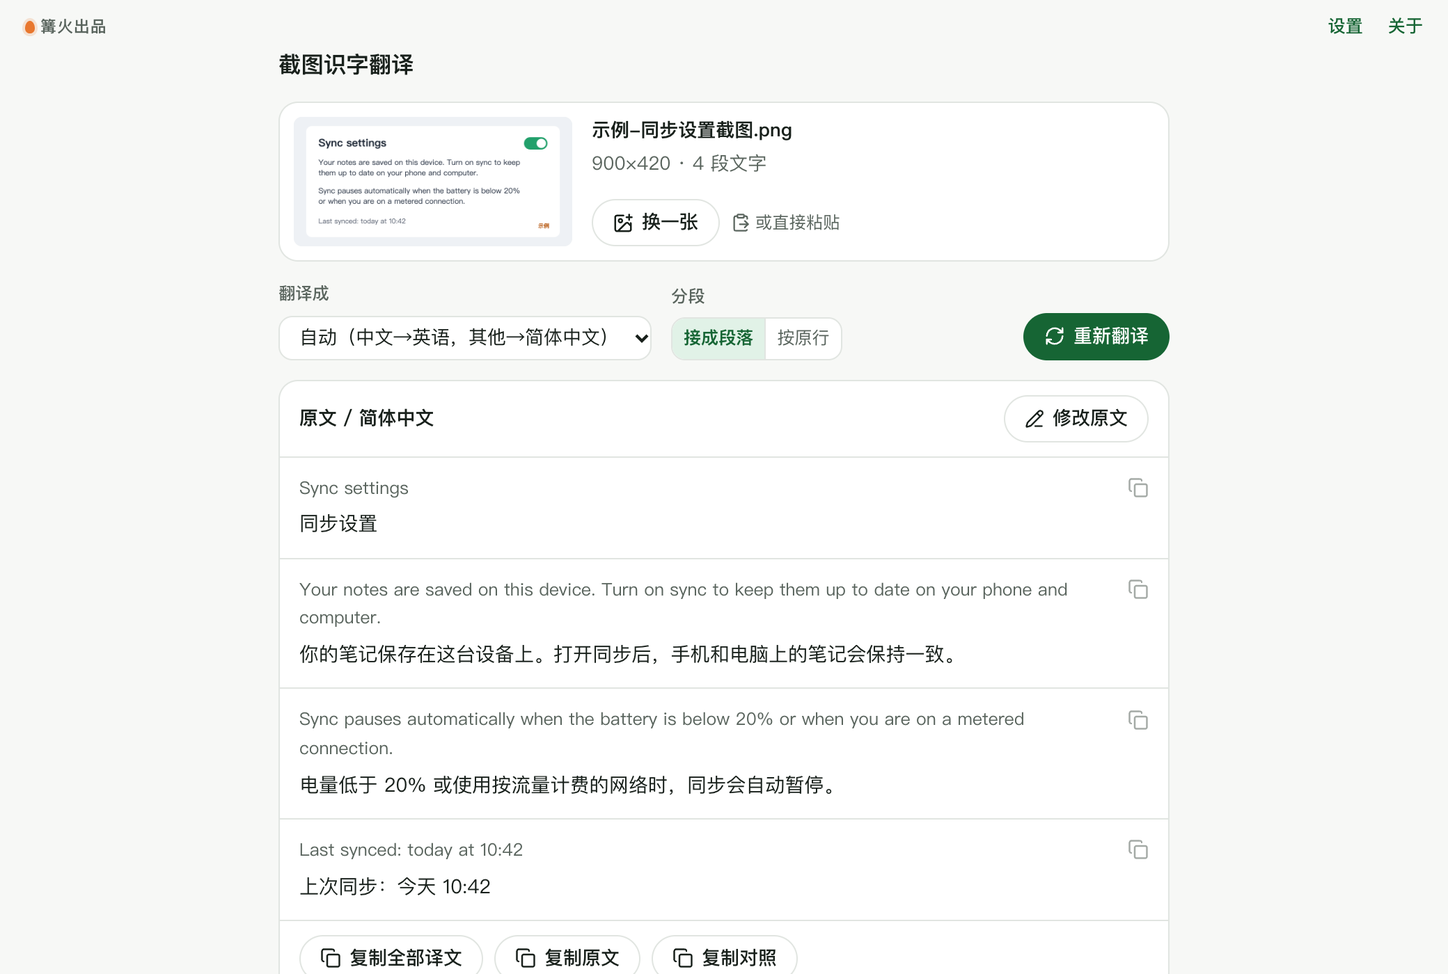
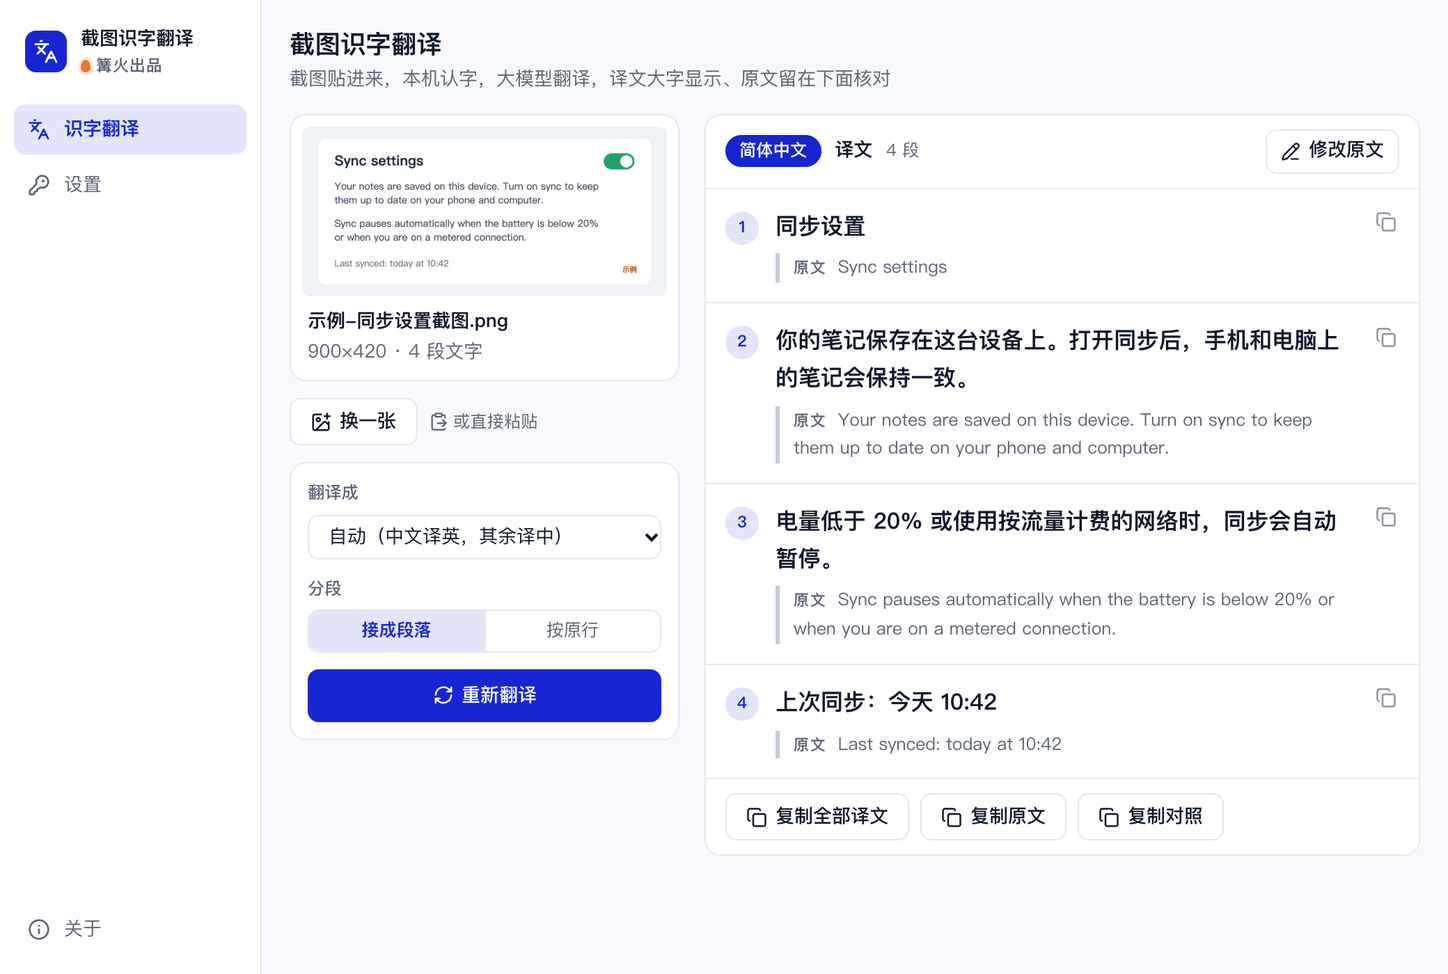
打磨 0.2.0：左右分栏、大字译文、示意图空状态

diff --git a/src/tool/Main.tsx b/src/tool/Main.tsx
@@ -8,6 +8,7 @@ import { llmReady, useSettings } from '../kit/settings';
 import { AUTO, IMAGE_EXTS, LANGS, copyText, isImagePath, joinSource, langLabel, lineBoxes, pastedName, resolveTarget, splitSource, toParagraphs, translate, type Pair } from './core';
 import type { TextLine } from './ocr-core';
 import { SAMPLE_NAME, SAMPLE_SEGMENTS, SAMPLE_TRANSLATIONS, sampleImage } from './sample';
+import { EmptyFlow } from './Empty';
 import './tool.css';
 
 type Ctx = Parameters<CustomTool['Main']>[0]['ctx'];
@@ -49,7 +50,7 @@ export function Main({ ctx, preview }: { ctx?: Ctx; preview?: boolean }) {
 
   // 预览页：直接展示示例截图和结果
   useEffect(() => {
-    if (!preview) return;
+    if (!preview || new URLSearchParams(location.search).get('state') === 'empty') return;
     setShot({ name: SAMPLE_NAME, url: sampleImage(), width: 900, height: 420 });
     setEdited(SAMPLE_SEGMENTS);
     setResult({ key: SAMPLE_SEGMENTS.join('\u0000') + '|zh-Hans', lang: 'zh-Hans', texts: SAMPLE_TRANSLATIONS });
@@ -131,103 +132,116 @@ export function Main({ ctx, preview }: { ctx?: Ctx; preview?: boolean }) {
   };
   const changeMode = (v: boolean) => { setByLine(v); savePref({ byLine: v }); setEdited(null); };
 
+  const sourceName = shot?.name ?? '';
   return (
     <div className="st-root">
+      <header className="st-head">
+        <h1>截图识字翻译</h1>
+        <p className="k-muted">截图贴进来，本机认字，大模型翻译，译文大字显示、原文留在下面核对</p>
+      </header>
       {!shot ? (
         <button className={`st-drop${hover ? ' hover' : ''}`} onClick={pick}>
-          <ImagePlus size={28} />
-          <b>把截图拖到这里，或按 <kbd>{navigator.platform.startsWith('Mac') ? '⌘' : 'Ctrl'}</kbd> + <kbd>V</kbd> 粘贴</b>
-          <span className="k-muted">也可以点击选择图片 · 支持 PNG、JPG、WebP、BMP、GIF</span>
+          <EmptyFlow />
+          <b>{hover ? '松开鼠标，开始识别' : <>把截图拖到这里，或按 <kbd>{navigator.platform.startsWith('Mac') ? '⌘' : 'Ctrl'}</kbd> + <kbd>V</kbd> 粘贴</>}</b>
+          <span className="k-muted"><ImagePlus size={14} />也可以点击选择图片 · 支持 PNG、JPG、WebP、BMP、GIF</span>
           <span className="k-muted">文字识别在本机完成；翻译会把识别出的文字发给你在「设置」里填的大模型</span>
         </button>
       ) : (
-        <div className={`st-shot${hover ? ' hover' : ''}`}>
-          <img src={shot.url} alt={`截图：${shot.name}`} />
-          <div className="st-shot-info">
-            <b title={shot.name}>{shot.name}</b>
-            <span className="k-muted k-num">{shot.width ? `${shot.width}×${shot.height} · ` : ''}{lines || edited ? `${segs.length} ${byLine ? '行' : '段'}文字` : '识别中…'}</span>
-            <span className="st-sp" />
+        <div className="st-work">
+          <aside className="st-left">
+            <figure className={`st-shot${hover ? ' hover' : ''}`}>
+              <img src={shot.url} alt={`截图：${sourceName}`} />
+              <figcaption>
+                <b title={sourceName}>{sourceName}</b>
+                <span className="k-muted k-num">{shot.width ? `${shot.width}×${shot.height} · ` : ''}{lines || edited ? `${segs.length} ${byLine ? '行' : '段'}文字` : '识别中…'}</span>
+              </figcaption>
+            </figure>
             <div className="st-row">
               <button className="k-btn" onClick={pick} disabled={busy}><ImagePlus size={15} />换一张</button>
               <span className="k-muted st-paste"><ClipboardPaste size={14} />或直接粘贴</span>
             </div>
-          </div>
-        </div>
-      )}
+            <div className="st-ctl">
+              <label className="st-field">
+                <span className="k-label">翻译成</span>
+                <select className="k-input" value={target} disabled={busy} onChange={(e) => changeTarget(e.target.value)}>
+                  <option value={AUTO}>自动（中文译英，其余译中）</option>
+                  {LANGS.map(([k, l]) => <option key={k} value={k}>{l}</option>)}
+                </select>
+              </label>
+              <div className="st-field">
+                <span className="k-label">分段</span>
+                <div className="k-seg" role="radiogroup" aria-label="分段">
+                  <button role="radio" aria-checked={!byLine} className={!byLine ? 'on' : ''} disabled={busy} onClick={() => changeMode(false)}>接成段落</button>
+                  <button role="radio" aria-checked={byLine} className={byLine ? 'on' : ''} disabled={busy} onClick={() => changeMode(true)}>按原行</button>
+                </div>
+              </div>
+              <button className="k-btn primary st-go" disabled={busy || !segs.length || !ready} title={!ready ? '先到「设置」里填写大模型' : undefined} onClick={() => runTranslate(segs, lang)}>
+                {status === 'translating' ? <Loader2 size={15} className="k-spin" /> : fresh ? <RefreshCw size={15} /> : <Languages size={15} />}
+                {fresh ? '重新翻译' : '翻译'}
+              </button>
+            </div>
+          </aside>
 
-      <div className="st-bar">
-        <label className="st-field">
-          <span className="k-label">翻译成</span>
-          <select className="k-input" value={target} disabled={busy} onChange={(e) => changeTarget(e.target.value)}>
-            <option value={AUTO}>自动（中文→英语，其他→简体中文）</option>
-            {LANGS.map(([k, l]) => <option key={k} value={k}>{l}</option>)}
-          </select>
-        </label>
-        <div className="st-field">
-          <span className="k-label">分段</span>
-          <div className="k-seg" role="radiogroup" aria-label="分段">
-            <button role="radio" aria-checked={!byLine} className={!byLine ? 'on' : ''} disabled={busy} onClick={() => changeMode(false)}>接成段落</button>
-            <button role="radio" aria-checked={byLine} className={byLine ? 'on' : ''} disabled={busy} onClick={() => changeMode(true)}>按原行</button>
-          </div>
-        </div>
-        <span className="st-sp" />
-        <button className="k-btn primary" disabled={busy || !segs.length || !ready} title={!ready ? '先到「设置」里填写大模型' : undefined} onClick={() => runTranslate(segs, lang)}>
-          {status === 'translating' ? <Loader2 size={15} className="k-spin" /> : fresh ? <RefreshCw size={15} /> : <Languages size={15} />}
-          {fresh ? '重新翻译' : '翻译'}
-        </button>
-      </div>
+          <section className="st-right">
+            {busy && (
+              <div className="st-busy" role="status">
+                <Loader2 size={15} className="k-spin" />
+                <span>{status === 'ocr' ? '正在识别文字…（第一次会多花几秒加载模型）' : `正在翻译成${langLabel(lang)}…`}</span>
+                <ProgressBar ratio={progress} label={status === 'ocr' ? '识别进度' : '翻译进度'} />
+              </div>
+            )}
+            {status === 'error' && error && (
+              <div className="k-notice err" role="alert"><span>{error}</span><button className="k-icon-btn" aria-label="关闭提示" onClick={() => { setError(''); setStatus(segs.length ? 'done' : 'idle'); }}><X size={14} /></button></div>
+            )}
+            {!ready && segs.length > 0 && !preview && (
+              <div className="k-notice" role="status"><span>文字已识别。要翻译，请先到「设置」填写大模型的接口地址、密钥和模型名。</span></div>
+            )}
+            {pasteHint && <div className="k-notice" role="status"><span>剪贴板里没有图片。先截图到剪贴板（或在图片上右键「复制图片」），再按粘贴。</span></div>}
+            {(lines || edited) && !segs.length && status === 'done' && <div className="k-notice"><span>这张图里没有识别到文字。图片太小或文字太浅时，可以放大后重新截图。</span></div>}
 
-      {busy && (
-        <div className="st-busy" role="status">
-          <Loader2 size={15} className="k-spin" />
-          <span>{status === 'ocr' ? '正在识别文字…（第一次会多花几秒加载模型）' : `正在翻译成${langLabel(lang)}…`}</span>
-          <ProgressBar ratio={progress} label={status === 'ocr' ? '识别进度' : '翻译进度'} />
+            {editing !== null ? (
+              <section className="st-panel">
+                <div className="st-panel-hd"><b>修改原文</b><span className="k-muted">{byLine ? '每行一段' : '段与段之间空一行'}，识别错的字可以在这里改</span></div>
+                <textarea className="k-input k-textarea st-edit" rows={10} value={editing} onChange={(e) => setEditing(e.target.value)} aria-label="原文" />
+                <div className="st-row st-end">
+                  <button className="k-btn" onClick={() => setEditing(null)}>取消</button>
+                  <button className="k-btn primary" onClick={() => {
+                    const list = splitSource(editing, byLine);
+                    setEdited(list); setEditing(null);
+                    if (ready && list.length) void runTranslate(list, resolveTarget(target, list.join('\n')));
+                  }}>{ready ? '保存并翻译' : '保存'}</button>
+                </div>
+              </section>
+            ) : segs.length > 0 && (
+              <section className="st-panel">
+                <div className="st-panel-hd">
+                  <span className="st-badge">{fresh ? langLabel(result!.lang) : '待翻译'}</span>
+                  <b>译文</b>
+                  <span className="k-muted k-num">{segs.length} {byLine ? '行' : '段'}</span>
+                  <span className="st-sp" />
+                  <button className="k-btn st-small" disabled={busy} onClick={() => setEditing(joinSource(segs, byLine))}><PencilLine size={14} />修改原文</button>
+                </div>
+                <ol className="st-pairs">
+                  {pairs.map((p, i) => (
+                    <li key={i} className="st-pair">
+                      <i className="st-no k-num">{i + 1}</i>
+                      <div className="st-txt">
+                        {p.target ? <p className="st-dst">{p.target}</p> : <p className="st-dst k-muted">{status === 'translating' ? '翻译中…' : '（未翻译）'}</p>}
+                        <p className="st-src"><span>原文</span>{p.source}</p>
+                      </div>
+                      {p.target && <span className="st-pair-copy"><CopyButton text={p.target} /></span>}
+                    </li>
+                  ))}
+                </ol>
+                <div className="st-row st-copy">
+                  {fresh && <CopyButton text={copyText(pairs, 'target', byLine)} label="复制全部译文" />}
+                  <CopyButton text={copyText(pairs, 'source', byLine)} label="复制原文" />
+                  {fresh && <CopyButton text={copyText(pairs, 'both', byLine)} label="复制对照" />}
+                </div>
+              </section>
+            )}
+          </section>
         </div>
-      )}
-      {status === 'error' && error && (
-        <div className="k-notice err" role="alert"><span>{error}</span><button className="k-icon-btn" aria-label="关闭提示" onClick={() => { setError(''); setStatus(segs.length ? 'done' : 'idle'); }}><X size={14} /></button></div>
-      )}
-      {!ready && segs.length > 0 && !preview && (
-        <div className="k-notice" role="status"><span>文字已识别。要翻译，请先到「设置」填写大模型的接口地址、密钥和模型名。</span></div>
-      )}
-      {pasteHint && <div className="k-notice" role="status"><span>剪贴板里没有图片。先截图到剪贴板（或在图片上右键「复制图片」），再按粘贴。</span></div>}
-      {(lines || edited) && !segs.length && status === 'done' && <div className="k-notice"><span>这张图里没有识别到文字。图片太小或文字太浅时，可以放大后重新截图。</span></div>}
-
-      {editing !== null ? (
-        <section className="st-panel">
-          <div className="st-panel-hd"><b>修改原文</b><span className="k-muted">{byLine ? '每行一段' : '段与段之间空一行'}，识别错的字可以在这里改</span></div>
-          <textarea className="k-input k-textarea st-edit" rows={10} value={editing} onChange={(e) => setEditing(e.target.value)} aria-label="原文" />
-          <div className="st-row st-end">
-            <button className="k-btn" onClick={() => setEditing(null)}>取消</button>
-            <button className="k-btn primary" onClick={() => {
-              const list = splitSource(editing, byLine);
-              setEdited(list); setEditing(null);
-              if (ready && list.length) void runTranslate(list, resolveTarget(target, list.join('\n')));
-            }}>{ready ? '保存并翻译' : '保存'}</button>
-          </div>
-        </section>
-      ) : segs.length > 0 && (
-        <section className="st-panel">
-          <div className="st-panel-hd">
-            <b>原文 / {fresh ? langLabel(result!.lang) : '译文'}</b>
-            <span className="st-sp" />
-            <button className="k-btn st-small" disabled={busy} onClick={() => setEditing(joinSource(segs, byLine))}><PencilLine size={14} />修改原文</button>
-          </div>
-          <ol className="st-pairs">
-            {pairs.map((p, i) => (
-              <li key={i} className="st-pair">
-                <p className="st-src">{p.source}</p>
-                {p.target ? <p className="st-dst">{p.target}</p> : <p className="st-dst k-muted">{status === 'translating' ? '翻译中…' : '（未翻译）'}</p>}
-                {p.target && <span className="st-pair-copy"><CopyButton text={p.target} /></span>}
-              </li>
-            ))}
-          </ol>
-          <div className="st-row st-copy">
-            {fresh && <CopyButton text={copyText(pairs, 'target', byLine)} label="复制全部译文" />}
-            <CopyButton text={copyText(pairs, 'source', byLine)} label="复制原文" />
-            {fresh && <CopyButton text={copyText(pairs, 'both', byLine)} label="复制对照" />}
-          </div>
-        </section>
       )}
     </div>
   );

diff --git a/src/tool/tool.css b/src/tool/tool.css
@@ -1,42 +1,65 @@
-/* 截图识字翻译：只用 kit.css 的变量。类名统一以 st- 开头。 */
+/* 截图识字翻译：左边截图和选项，右边大字译文。只用 kit.css 的变量。类名统一以 st- 开头。 */
 .st-root { display: flex; flex-direction: column; gap: 14px; }
 .st-sp { flex: 1; }
 .st-row { display: flex; align-items: center; gap: 8px; flex-wrap: wrap; }
 .st-end { justify-content: flex-end; }
+.st-head h1 { margin: 0; font-size: 1.35em; }
+.st-head p { margin: 2px 0 0; }
 
-.st-drop { display: flex; flex-direction: column; align-items: center; justify-content: center; gap: 8px; min-height: 230px; padding: 24px; text-align: center; color: var(--ink); background: var(--surface); border: 1.5px dashed var(--line-strong); border-radius: var(--radius-lg); cursor: pointer; font: inherit; transition: border-color .15s var(--ease), background .15s var(--ease); }
-.st-drop svg { color: var(--primary); }
-.st-drop b { font-size: 1.08em; font-weight: 600; }
+.st-drop { display: flex; flex-direction: column; align-items: center; justify-content: center; gap: 8px; min-height: 300px; padding: 22px; text-align: center; color: var(--ink); background: var(--surface); border: 1.5px dashed var(--line-strong); border-radius: var(--radius-lg); cursor: pointer; font: inherit; transition: border-color .2s var(--ease), background .2s var(--ease); }
+.st-drop b { font-size: 1.1em; font-weight: 600; margin-top: 4px; }
+.st-drop .k-muted { display: inline-flex; align-items: center; gap: 6px; }
 .st-drop:hover, .st-drop.hover { border-color: var(--primary); background: var(--primary-soft); }
 kbd { display: inline-block; min-width: 1.6em; padding: 0 5px; border: 1px solid var(--line-strong); border-bottom-width: 2px; border-radius: 5px; font: inherit; font-size: .9em; background: var(--chip); }
+.st-flow { width: 100%; max-width: 560px; height: auto; }
+.st-f-card { fill: var(--surface); stroke: var(--line-strong); }
+.st-f-bar { fill: var(--chip); }
+.st-f-dot { fill: var(--line-strong); }
+.st-f-ln { fill: var(--line-strong); }
+.st-f-ln.faint { opacity: .55; }
+.st-f-cap { fill: var(--muted); font-size: 11px; }
+.st-f-arrow { stroke: var(--primary); stroke-width: 2; fill: none; stroke-linecap: round; stroke-linejoin: round; }
+.st-f-chip { fill: var(--primary-soft); stroke: var(--primary); }
+.st-f-chip.hot { fill: var(--primary); }
+.st-f-chip-t { fill: var(--primary); font-size: 11px; font-weight: 600; }
+.st-f-chip-t.hot { fill: var(--on-primary); }
+.st-f-zh { fill: var(--ink); font-size: 12.5px; font-weight: 600; }
 
-.st-shot { display: flex; gap: 14px; padding: 10px; background: var(--surface); border: 1px solid var(--line); border-radius: var(--radius-lg); }
+.st-work { display: grid; grid-template-columns: 280px minmax(0, 1fr); gap: 18px; align-items: start; }
+.st-left { display: flex; flex-direction: column; gap: 12px; position: sticky; top: 0; }
+.st-shot { margin: 0; padding: 8px; background: var(--surface); border: 1px solid var(--line); border-radius: var(--radius-lg); display: grid; gap: 8px; transition: border-color .2s var(--ease); }
 .st-shot.hover { border-color: var(--primary); }
-.st-shot img { flex: none; width: 200px; max-height: 140px; object-fit: contain; object-position: left top; border-radius: 6px; background: var(--chip); }
-.st-shot-info { flex: 1; min-width: 0; display: flex; flex-direction: column; gap: 4px; }
-.st-shot-info b { overflow: hidden; text-overflow: ellipsis; white-space: nowrap; }
+.st-shot img { width: 100%; max-height: 220px; object-fit: contain; border-radius: 6px; background: var(--chip); }
+.st-shot figcaption { display: grid; gap: 2px; padding: 0 4px 2px; }
+.st-shot figcaption b { overflow: hidden; text-overflow: ellipsis; white-space: nowrap; }
 .st-paste { display: inline-flex; align-items: center; gap: 4px; font-size: .9em; }
-
-.st-bar { display: flex; align-items: flex-end; gap: 14px; flex-wrap: wrap; }
+.st-ctl { display: flex; flex-direction: column; gap: 12px; padding: 12px; background: var(--side); border: 1px solid var(--line); border-radius: var(--radius-lg); }
 .st-field { display: flex; flex-direction: column; gap: 6px; min-width: 0; }
-.st-field select { min-width: 230px; }
+.st-field select { width: 100%; }
+.st-go { width: 100%; height: 38px; }
 
+.st-right { display: flex; flex-direction: column; gap: 12px; min-width: 0; }
 .st-busy { display: flex; align-items: center; gap: 10px; color: var(--muted); }
 .st-busy .k-bar { flex: 1; max-width: 220px; }
 
 .st-panel { display: flex; flex-direction: column; background: var(--surface); border: 1px solid var(--line); border-radius: var(--radius-lg); overflow: hidden; }
 .st-panel-hd { display: flex; align-items: center; gap: 10px; flex-wrap: wrap; padding: 10px 14px; border-bottom: 1px solid var(--line); }
 .st-panel-hd .k-muted { font-size: .9em; }
-.st-small { height: 28px; padding: 0 10px; }
+.st-badge { padding: 2px 10px; border-radius: 999px; background: var(--primary); color: var(--on-primary); font-size: .9em; font-weight: 600; }
+.st-small { height: 32px; padding: 0 10px; }
 .st-edit { margin: 12px 14px; width: auto; border-radius: min(var(--radius), 10px); line-height: 1.7; }
 .st-panel > .st-end { padding: 0 14px 12px; }
 
 .st-pairs { list-style: none; margin: 0; padding: 0; }
-.st-pair { position: relative; padding: 12px 48px 12px 14px; border-bottom: 1px solid var(--line); user-select: text; }
+.st-pair { position: relative; display: grid; grid-template-columns: 26px minmax(0, 1fr); gap: 10px; padding: 14px 52px 14px 14px; border-bottom: 1px solid var(--line); user-select: text; }
 .st-pair:last-child { border-bottom: 0; }
-.st-pair p { margin: 0; line-height: 1.65; overflow-wrap: anywhere; white-space: pre-wrap; }
-.st-src { color: var(--muted); font-size: .93em; }
-.st-dst { margin-top: 4px !important; color: var(--ink); font-size: 1.04em; }
-.st-pair-copy { position: absolute; top: 8px; right: 8px; opacity: .55; transition: opacity .15s var(--ease); }
+.st-no { font-style: normal; width: 24px; height: 24px; display: grid; place-items: center; border-radius: 50%; background: var(--primary-soft); color: var(--primary); font-size: .85em; font-weight: 700; margin-top: 2px; }
+.st-txt { display: grid; gap: 6px; min-width: 0; }
+.st-txt p { margin: 0; line-height: 1.65; overflow-wrap: anywhere; white-space: pre-wrap; }
+.st-dst { font-size: 1.2em; font-weight: 600; color: var(--ink); }
+.st-src { color: var(--muted); font-size: .93em; padding-left: 10px; border-left: 3px solid var(--line-strong); }
+.st-src span { display: inline-block; margin-right: 8px; font-size: .88em; font-weight: 600; letter-spacing: .08em; color: var(--muted); }
+.st-pair-copy { position: absolute; top: 10px; right: 10px; opacity: .7; transition: opacity .15s var(--ease); }
 .st-pair:hover .st-pair-copy, .st-pair-copy:focus-within { opacity: 1; }
 .st-copy { padding: 10px 14px; border-top: 1px solid var(--line); background: var(--side); }
+@media (max-width: 760px) { .st-work { grid-template-columns: 1fr; } .st-left { position: static; } }

diff --git a/src/tool/Empty.tsx b/src/tool/Empty.tsx
@@ -1,0 +1,36 @@
+// 空状态示意：外文截图（灰条代表外文）→ 本机识别 → 大模型翻译 → 一段外文配一段中文
+export function EmptyFlow() {
+  return (
+    <svg className="st-flow" viewBox="0 0 560 150" role="img" aria-label="一张外文截图，文字在本机识别后交给大模型翻译，变成逐段对照的译文">
+      <g>
+        <rect x="6" y="8" width="132" height="104" rx="8" className="st-f-card" />
+        <rect x="6" y="8" width="132" height="18" rx="8" className="st-f-bar" />
+        <circle cx="18" cy="17" r="3" className="st-f-dot" /><circle cx="29" cy="17" r="3" className="st-f-dot" /><circle cx="40" cy="17" r="3" className="st-f-dot" />
+        {[[36, 96], [52, 118], [68, 84], [92, 100]].map(([y, w], i) => <rect key={i} x="18" y={y + 4} width={w} height="7" rx="3.5" className={i === 3 ? 'st-f-ln faint' : 'st-f-ln'} />)}
+        <text x="72" y="136" textAnchor="middle" className="st-f-cap">外文截图</text>
+      </g>
+      <g>
+        <rect x="140" y="26" width="74" height="22" rx="11" className="st-f-chip" />
+        <text x="177" y="41" textAnchor="middle" className="st-f-chip-t">本机识别</text>
+        <path d="M157 64 H195" className="st-f-arrow" /><path d="M188 57 L197 64 L188 71" className="st-f-arrow" />
+        <text x="177" y="90" textAnchor="middle" className="st-f-cap">图片不上传</text>
+      </g>
+      <g>
+        <rect x="224" y="26" width="86" height="22" rx="11" className="st-f-chip hot" />
+        <text x="267" y="41" textAnchor="middle" className="st-f-chip-t hot">大模型翻译</text>
+        <path d="M247 64 H285" className="st-f-arrow" /><path d="M278 57 L287 64 L278 71" className="st-f-arrow" />
+        <text x="267" y="90" textAnchor="middle" className="st-f-cap">只发文字</text>
+      </g>
+      <g>
+        <rect x="322" y="8" width="232" height="104" rx="8" className="st-f-card" />
+        {[0, 1, 2].map((i) => (
+          <g key={i}>
+            <rect x="334" y={22 + i * 30} width={[110, 130, 90][i]} height="6" rx="3" className="st-f-ln faint" />
+            <text x="334" y={44 + i * 30} className="st-f-zh">{['同步设置', '电量低于 20% 时自动暂停', '上次同步：今天 10:42'][i]}</text>
+          </g>
+        ))}
+        <text x="438" y="136" textAnchor="middle" className="st-f-cap">原文译文逐段对照，可单独复制</text>
+      </g>
+    </svg>
+  );
+}

diff --git a/src/tool/core.ts b/src/tool/core.ts
@@ -121,6 +121,7 @@ export function buildMessages(segs: string[], target: string): Msg[] {
   return [
     {
       role: 'system',
+      // check-zh: 忽略（写给大模型的提示词里的 JSON 字段名）
       content: `你是专业翻译。把用户给的截图文字逐段翻译成${lang}。
 要求：
 1. 输入是 JSON：{"segments": [...]}，每个元素是一段原文（来自截图识别，可能有个别错字，按上下文理解）。

diff --git a/CHANGELOG.md b/CHANGELOG.md
@@ -1,5 +1,13 @@
 # 更新记录
 
+## 0.2.0
+
+- 换成左右分栏：左边放截图和翻译选项，右边是大字译文，原文缩小留在下面核对，主色改为靛蓝。
+- 空状态画出「外文截图 → 本机识别 → 大模型翻译 → 逐段对照」的示意图。
+- 译文按序号逐段排列，每段单独复制；目标语言选项文字改短，不再被截断。
+- 写给大模型的提示词里的字段名加了检查忽略标记，界面文字全部中文。
+- 重写上架文案，补充使用场景。
+
 ## 0.1.0
 
 - 首个版本。
